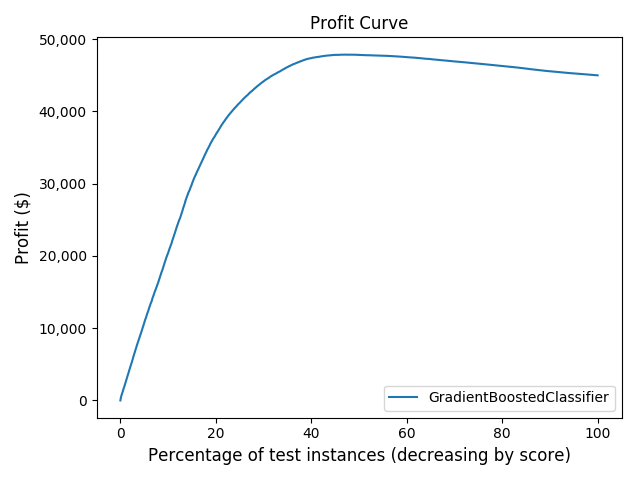
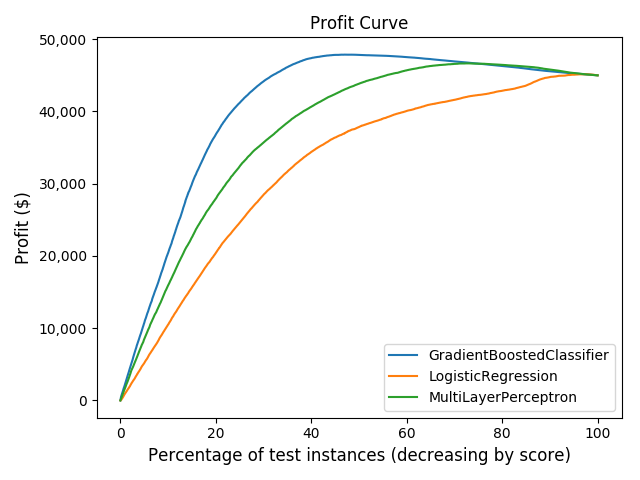
clean up scripts

diff --git a/src/roc_profit_curve.py b/src/roc_profit_curve.py
@@ -12,7 +12,7 @@ from sklearn.ensemble import RandomForestClassifier, GradientBoostingClassifier
 from sklearn.metrics import accuracy_score, precision_score, recall_score, confusion_matrix, roc_auc_score, roc_curve
 from tensorflow.keras.models import load_model
 
-from src.default_modeler import DefaultModeler, undersample
+from src.default_modeler import DefaultModeler, undersample, load_split_data
 #from src.model_mlp import get_weights, define_mlp_model
 
 def plot_model_profits(model_profits, save_path=None):
@@ -63,104 +63,102 @@ def find_best_threshold(model_profits):
             max_profit = profits[max_index]
     return max_model, max_threshold, max_profit
 
-def load_split_data():
-    """ 
-        Load data in 
-    Args:
-        train(int): option to control whether all features will be used
-    Returns:
-        Train_test datasets for X and y, as well as a list for column names
-    """
-    df_loan = pd.read_pickle('data/loan_data')
-    feature_choice = ['Term', 'GrAppv', 'U_rate', 'SBA_g', 'SectorRisk', 'Default']
-    df_loan = df_loan[feature_choice]
-
-    y = df_loan.pop('Default').values
-    X = df_loan.values
-    col_names = df_loan.columns
-    X_train, X_test, y_train, y_test = train_test_split(X, y, test_size=0.2, random_state=1, stratify=y)
-    return (X_train, X_test, y_train, y_test), col_names
-
 if __name__ == "__main__":
     
-    ### Reduce model to 5 variables: [Term, U_rate, SBA_g, GrAppv, Sector_Risk], conduct gridSearch to find the best fitting gbc model
-    (X_model, X_holdout, y_model, y_holdout), col_names = load_split_data()
-    
     cost_benefit = np.array([[50000, -5000], [0, 0]])
-
     model_profits = []
-    ## Fit the final gbc model with all training data and the optimized hyperparameters
-    print('GBC model')
-    ts = time()
-    with open('static/model_gbc.pkl', 'rb') as f_gbc:
-        gbc = pickle.load(f_gbc)
-    y_pred_gbc = gbc.predict_proba(X_holdout)[:,1]
-    fpr_gbc, tpr_gbc, thresholds_gbc = roc_curve(y_holdout, y_pred_gbc)
-    profit_gbc = tpr_gbc * cost_benefit[0,0] + fpr_gbc * cost_benefit[0,1]
-    model_profits.append(('GradientBoostedClassifier', gbc, profit_gbc, thresholds_gbc))
-    score = roc_auc_score(y_holdout, y_pred_gbc)
-    print('ROC AUC: %.3f' % score)
-    te= time()
-    print("Time passed:", te-ts) 
 
-    # ## Fit the final Logistic model with all training data
-    # print('\nLR model')
-    # ts = time()
-    # scaler = StandardScaler(copy=True, with_mean=True, with_std=True)
-    # X_std = scaler.fit_transform(X_model)
-    # X_holdout_std = scaler.transform(X_holdout)
-    # with open('static/model_lg.pkl', 'rb') as f_lg:
-    #     lg = pickle.load(f_lg)
-    # y_pred_lg = lg.predict_proba(X_holdout_std)[:,1]
-    # fpr_lg, tpr_lg, thresholds_lg = roc_curve(y_holdout, y_pred_lg)
-    # profit_lg = tpr_lg * cost_benefit[0,0] + fpr_lg * cost_benefit[0,1]
-    # model_profits.append(('LogisticRegression', lg, profit_lg, thresholds_lg))
-    # score = roc_auc_score(y_holdout, y_pred_lg)
-    # print('ROC AUC: %.3f' % score)
-    # te= time()
-    # print("Time passed:", te-ts) 
+    ### Load data with final 5 variables: [Term, U_rate, SBA_g, GrAppv, Sector_Risk]
+    (X_model, X_holdout, y_model, y_holdout), col_names = load_split_data(select=1)
 
-    # ## Fit the final mlp model with all training data
-    # print('\nMLP model')
-    # ts = time()
-    # mlp = load_model("static/model_mlp.h5")
-    # y_pred_mlp = mlp.predict_proba(X_holdout_std)
-    # fpr_mlp, tpr_mlp, thresholds_mlp = roc_curve(y_holdout, y_pred_mlp)
-    # profit_mlp = tpr_mlp * cost_benefit[0,0] + fpr_mlp * cost_benefit[0,1]
-    # model_profits.append(('MultiLayerPerceptron', mlp, profit_mlp, thresholds_mlp))
-    # score = roc_auc_score(y_holdout, y_pred_mlp)
-    # print('ROC AUC: %.3f' % score)
-    # te= time()
-    # print("Time passed:", te-ts) 
+    ### Standarsize feature variables (needed for logistic regression and MLP) 
+    scaler = StandardScaler(copy=True, with_mean=True, with_std=True)
+    X_std = scaler.fit_transform(X_model)
+    X_holdout_std = scaler.transform(X_holdout)
+   
+    ### Load the final gbc model
+    model_gbc = 1
+    if model_gbc:
+        print('Load GBC model')
+        ts = time()
+        with open('static/model_gbc.pkl', 'rb') as f_gbc:
+            gbc = pickle.load(f_gbc)
+        y_pred_gbc = gbc.predict_proba(X_holdout)[:,1]
+        fpr_gbc, tpr_gbc, thresholds_gbc = roc_curve(y_holdout, y_pred_gbc)
+        profit_gbc = tpr_gbc * cost_benefit[0,0] + fpr_gbc * cost_benefit[0,1]
+        model_profits.append(('GradientBoostedClassifier', gbc, profit_gbc, thresholds_gbc))
+        score = roc_auc_score(y_holdout, y_pred_gbc)
+        print('ROC AUC: %.3f' % score)
+        te= time()
+        print("Time passed:", te-ts) 
 
-    # plt.figure(1)
-    # plt.plot([0, 1], [0, 1], 'k--')
-    # plt.plot(fpr_gbc, tpr_gbc, label='GradientBoostedClassifier')
-    # plt.plot(fpr_lg, tpr_lg, label='LogisticRegression')
-    # plt.plot(fpr_mlp, tpr_mlp, label='MultiLayerPerceptron')
-    # plt.xlabel('False positive rate')
-    # plt.ylabel('True positive rate')
-    # plt.title('ROC Curve')
-    # plt.legend(loc='best')
-    # plt.savefig('images/roc_curve.png')
-    # plt.close()
+    ### Load the final Logistic model
+    model_lg = 1
+    if model_lg:
+        print('\nLoad LR model')
+        ts = time()
+        with open('static/model_lg.pkl', 'rb') as f_lg:
+            lg = pickle.load(f_lg)
+        y_pred_lg = lg.predict_proba(X_holdout_std)[:,1]
+        fpr_lg, tpr_lg, thresholds_lg = roc_curve(y_holdout, y_pred_lg)
+        profit_lg = tpr_lg * cost_benefit[0,0] + fpr_lg * cost_benefit[0,1]
+        model_profits.append(('LogisticRegression', lg, profit_lg, thresholds_lg))
+        score = roc_auc_score(y_holdout, y_pred_lg)
+        print('ROC AUC: %.3f' % score)
+        te= time()
+        print("Time passed:", te-ts) 
 
-    plot_model_profits(model_profits, 'images/profit_curve.png')
+    ### Load the final mlp model
+    model_mlp = 1
+    if model_mlp:
+        print('\nLoad MLP model')
+        ts = time()
+        mlp = load_model("static/model_mlp.h5")
+        y_pred_mlp = mlp.predict_proba(X_holdout_std)
+        fpr_mlp, tpr_mlp, thresholds_mlp = roc_curve(y_holdout, y_pred_mlp)
+        profit_mlp = tpr_mlp * cost_benefit[0,0] + fpr_mlp * cost_benefit[0,1]
+        model_profits.append(('MultiLayerPerceptron', mlp, profit_mlp, thresholds_mlp))
+        score = roc_auc_score(y_holdout, y_pred_mlp)
+        print('ROC AUC: %.3f' % score)
+        te= time()
+        print("Time passed:", te-ts) 
 
-    # #Find the max profit and corresponding model and threshold
-    # print('\nFinding the max profits...')
-    # ts = time()
-    # max_model, max_thresh, max_profit = find_best_threshold(model_profits)
-    # if max_model == gbc:
-    #     max_labeled_positives = max_model.predict_proba(X_holdout) >= max_thresh
-    # else:
-    #     max_labeled_positives = max_model.predict_proba(X_holdout_std) >= max_thresh
-    # proportion_positives = max_labeled_positives.mean()
-    # reporting_string = ('Best model:\t\t{}\n'
-    #                     'Best threshold:\t\t{:.2f}\n'
-    #                     'Resulting profit:\t{}\n'
-    #                     'Proportion positives:\t{:.2f}')
-    # print(reporting_string.format(max_model.__class__.__name__, max_thresh,
-    #                               max_profit, proportion_positives))
-    # te= time()
-    # print("Time passed:", te-ts) 
+    ### Plot the ROC Curve
+    plot_roc = 0
+    if plot_roc:
+        plt.figure(1)
+        plt.plot([0, 1], [0, 1], 'k--')
+        plt.plot(fpr_gbc, tpr_gbc, label='GradientBoostedClassifier')
+        plt.plot(fpr_lg, tpr_lg, label='LogisticRegression')
+        plt.plot(fpr_mlp, tpr_mlp, label='MultiLayerPerceptron')
+        plt.xlabel('False positive rate')
+        plt.ylabel('True positive rate')
+        plt.title('ROC Curve')
+        plt.legend(loc='best')
+        plt.savefig('images/roc_curve.png')
+        plt.close()
+
+    ### Plot the Profit Curve
+    plot_profit = 1
+    if plot_profit:
+        plot_model_profits(model_profits, 'images/profit_curve.png')
+
+    ### Find the max profit and corresponding model and threshold
+    find_max = 0
+    if find_max:
+        print('\nFinding the max profits...')
+        ts = time()
+        max_model, max_thresh, max_profit = find_best_threshold(model_profits)
+        if max_model == gbc:
+            max_labeled_positives = max_model.predict_proba(X_holdout) >= max_thresh
+        else:
+            max_labeled_positives = max_model.predict_proba(X_holdout_std) >= max_thresh
+        proportion_positives = max_labeled_positives.mean()
+        reporting_string = ('Best model:\t\t{}\n'
+                            'Best threshold:\t\t{:.2f}\n'
+                            'Resulting profit:\t{}\n'
+                            'Proportion positives:\t{:.2f}')
+        print(reporting_string.format(max_model.__class__.__name__, max_thresh,
+                                    max_profit, proportion_positives))
+        te= time()
+        print("Time passed:", te-ts) 

diff --git a/src/final_model.py b/src/final_model.py
@@ -1,7 +1,9 @@
+import numpy as np
 import pandas as pd
 from time import time
 import pickle
 
+import statsmodels.api as sm
 from sklearn.linear_model import LogisticRegression
 from sklearn.preprocessing import StandardScaler 
 from sklearn.model_selection import train_test_split, GridSearchCV
@@ -41,9 +43,16 @@ def gridsearch_with_output(estimator, parameter_grid, X_train, y_train):
 
 if __name__ == "__main__":
     
-    ### Reduce model to 5 variables: [Term, U_rate, SBA_g, GrAppv, Sector_Risk], conduct gridSearch to find the best fitting gbc model
+    save_model = 0
+
+    ### Load data with final 5 variables: [Term, U_rate, SBA_g, GrAppv, Sector_Risk]
     (X_model, X_holdout, y_model, y_holdout), col_names = load_split_data(select=1)
     
+    ### Standardize feature variables, add a constant for statsmodel
+    scaler = StandardScaler(copy=True, with_mean=True, with_std=True)
+    X_std = scaler.fit_transform(X_model)
+    X_std_sm = sm.add_constant(X_std)
+
     ### Gridsearch for optimal hyper-parameters
     gridsearch = 0
     if gridsearch:
@@ -60,34 +69,43 @@ if __name__ == "__main__":
                                                                 X_train, y_train)
         te= time()
         print("Time passed:", te-ts)
-
-    save_model = 0
     
     ### Fit final gbc model with all train data and the optimized hyperparameters
-    gbc = GradientBoostingClassifier(learning_rate=0.2, n_estimators=500, random_state=2,
-                                    min_samples_leaf=50, max_depth=5, max_features=3)
-    dm_gbc = DefaultModeler(gbc)
-    dm_gbc.print_model_metrics(X_model, X_holdout, y_model, y_holdout)
-    y_pred = gbc.predict(X_holdout) 
-    print(confusion_matrix(y_holdout, y_pred))
-    score = roc_auc_score(y_holdout, y_pred)
-    print('ROC AUC: %.3f' % score)
-    if save_model:
-        with open('static/model_gbc.pkl', 'wb') as f: pickle.dump(gbc,f)
+    model_gbc = 0
+    if model_gbc:
+        gbc = GradientBoostingClassifier(learning_rate=0.2, n_estimators=500, random_state=2,
+                                        min_samples_leaf=50, max_depth=5, max_features=3)
+        dm_gbc = DefaultModeler(gbc)
+        dm_gbc.print_model_metrics(X_model, X_holdout, y_model, y_holdout)
+        y_pred = gbc.predict(X_holdout) 
+        print(confusion_matrix(y_holdout, y_pred))
+        score = roc_auc_score(y_holdout, y_pred)
+        print('ROC AUC: %.3f' % score)
+        if save_model:
+            with open('static/model_gbc.pkl', 'wb') as f: pickle.dump(gbc,f)
 
     ### Fit final Logistic model with all train data and get the coefficients
-    scaler = StandardScaler(copy=True, with_mean=True, with_std=True)
-    X_std = scaler.fit_transform(X_model)
-    lg = LogisticRegression(solver='lbfgs')
-    lg.fit(X_std, y_model)
-    name = lg.__class__.__name__
-    X_holdout_std = scaler.transform(X_holdout)
-    y_pred = lg.predict(X_holdout_std)
-    print('*'*30)
-    print("{} Intercept:".format(name), lg.intercept_) 
-    print("{} Coefficients:".format(name), lg.coef_)    
-    print("{} Accuracy (test):".format(name), accuracy_score(y_holdout, y_pred))
-    print("{} Precision (test):".format(name), precision_score(y_holdout, y_pred))
-    print("{} Recall (test):".format(name), recall_score(y_holdout, y_pred))
-    if save_model:
-        with open('static/model_lg.pkl', 'wb') as f: pickle.dump(lg,f)
+    model_lg = 1
+    if model_lg:
+        lg = LogisticRegression(solver='lbfgs')
+        lg.fit(X_std, y_model)
+        name = lg.__class__.__name__
+        X_holdout_std = scaler.transform(X_holdout)
+        y_pred = lg.predict(X_holdout_std)
+        print('*'*30)
+        print("{} Intercept:".format(name), lg.intercept_) 
+        print("{} Coefficients:".format(name), lg.coef_)    
+        print("{} Accuracy (test):".format(name), accuracy_score(y_holdout, y_pred))
+        print("{} Precision (test):".format(name), precision_score(y_holdout, y_pred))
+        print("{} Recall (test):".format(name), recall_score(y_holdout, y_pred))
+        if save_model:
+            with open('static/model_lg.pkl', 'wb') as f: pickle.dump(lg,f)
+    
+    ### Fit final Logistic model in statsmodel, get the coefficients and p-value
+    stats_model = 1
+    if stats_model:
+        lg = sm.Logit(y_model, X_std_sm)
+        result = lg.fit(method='lbfgs')
+        print(result.summary2())
+
+    

diff --git a/src/model_mlp.py b/src/model_mlp.py
@@ -73,10 +73,12 @@ def define_mlp_model(n_input):
     return model
 
 if __name__ == '__main__':
+
+    ### Load data with final 5 variables: [Term, U_rate, SBA_g, GrAppv, Sector_Risk]
     (X_model, X_holdout, y_model, y_holdout), col_names = load_split_data(select=1)
     X_train, X_test, y_train, y_test = train_test_split(X_model, y_model, test_size=0.1, random_state=42, stratify=y_model)
     
-    ### Standardize features
+    ### Standardize feature variables
     scaler = StandardScaler(copy=True, with_mean=True, with_std=True)
     X_std = scaler.fit_transform(X_train)
     X_test_std = scaler.transform(X_test)
@@ -97,6 +99,7 @@ if __name__ == '__main__':
     print('ROC AUC: %.3f' % score)
     print("Time passed:", te-ts)
 
+    ### Save model
     save_model = 0
     if save_model:
         model.save("static/model_mlp.h5") 

diff --git a/README.md b/README.md
@@ -11,8 +11,8 @@
    5. [Loan Characteristics](#loan)
 4. [Sampling, Modeling & Comparison](#model)
    1. [Balancing Classes](#sample)
-   2. [Modeling & Comparison](#compare)
-   3. [Multi-layer Perceptron](#mlp)
+   2. [Ensemble Models](#gbc)
+   3. [Multi-layer Perceptron (MLP) Model](#mlp)
    4. [Profit Curve](#profit)
    5. [Final Model](#final)
 5. [Conclusion](#result)
@@ -252,7 +252,7 @@ Both of these options are tried on four types of models: Logistic Regression, Ra
 
 Three model performance metrics between the two sampling options are listed: __Precision__, __Recall__ and __Accuracy__.  For this study, we care first and foremost about the __Precision__ metric.  That is, we don't want to predict a loan going into default when it doesn't in fact.  Ultimately, the goal of SBA loan guarantee is to assist small business owners in obtaining much needed capital for growth. Secondly, we would also want the model to have a good overall accuracy rate after the imbalanced dataset problem is corrected.  Based on these two criteria, the class_weight option is chosen.  Amongst the model tested, a linear model like Logistic Regression performs significantly worse than the other three non-linear models.  Out of the three non-linear models, performance is pretty much on-par with each other.  In the next modeling section, I will use both Random Forest and Gradient Boosting to identify the features of importance.   
 
-### 4.2. Modeling & Comparison <a name="compare"></a>
+### 4.2. Ensemble Models <a name="gbc"></a>
 
 With the original eight features, a Random Forest model and a Gradient Boosting model are fitted separately while setting the class_weight option to balanced.  The goal is see if both models will identify the same set of important features.
 
@@ -311,3 +311,5 @@ For further research,  I would like to try other deep learning models on this da
 
 ## 6. Citation <a name="cite"></a>
 * [Small Business Administration (SBA)](https://www.sba.gov/)
+* [Wells Fargo SBA Lending](https://www.wellsfargo.com/biz/sba/)
+* [Should This Loan be Approved or Denied? A large and rich dataset from the U.S. Small Business Administration (SBA)](https://www.kaggle.com/mirbektoktogaraev/should-this-loan-be-approved-or-denied)
